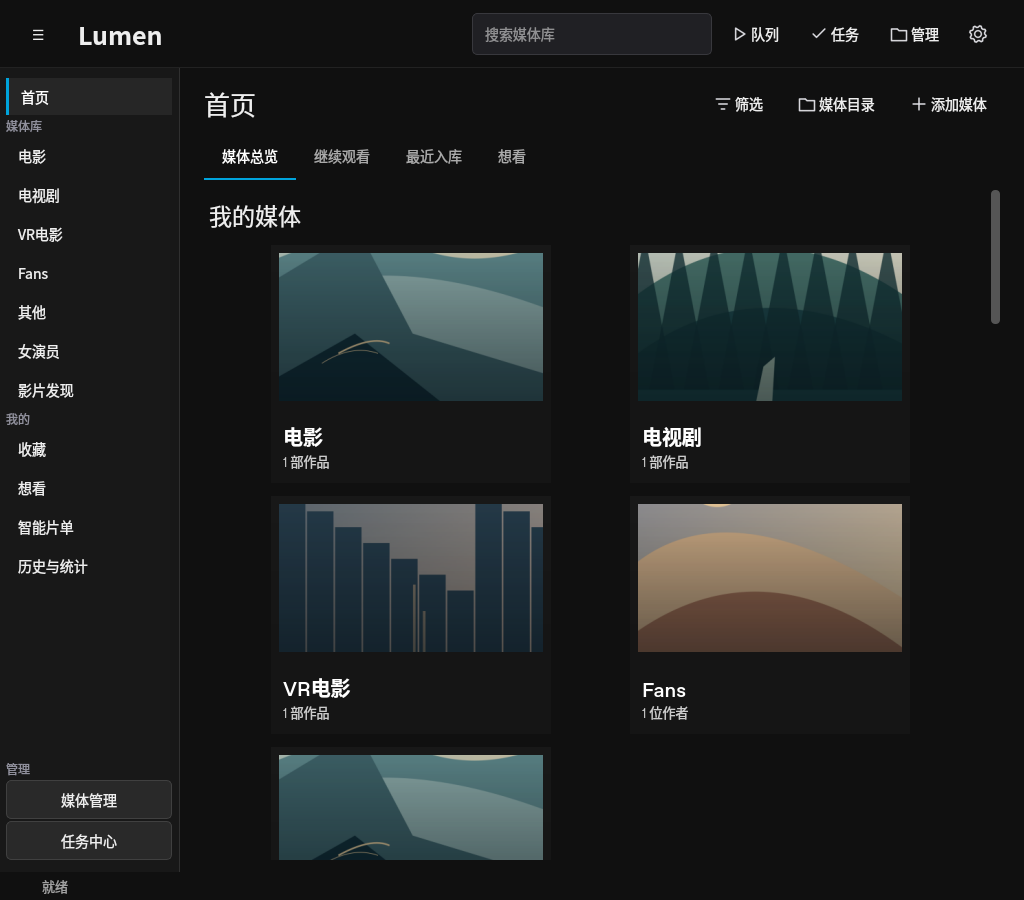
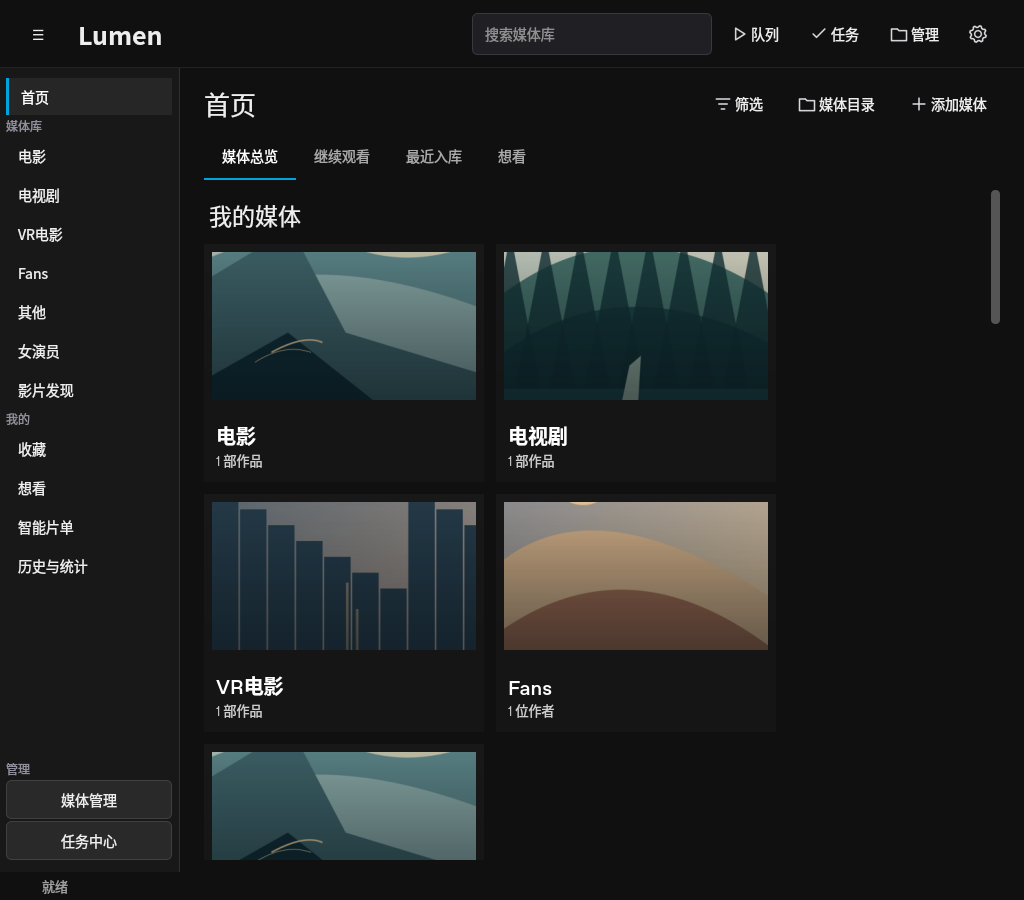
Preserve manual player visibility across pause and finalize approved surfaces

diff --git a/android/app/src/main/java/net/lumen/media/MainActivity.java b/android/app/src/main/java/net/lumen/media/MainActivity.java
@@ -311,17 +311,18 @@ public final class MainActivity extends Activity {
             for(int i=0;i<items.length();i++){
                 JSONObject work=items.getJSONObject(i),resume=work.optJSONObject("resume");if(resume==null)continue;
                 long workId=work.optLong("id"),fileId=resume.optLong("file_id");
-                LinearLayout card=new LinearLayout(this);card.setOrientation(LinearLayout.VERTICAL);card.setPadding(dp(10),dp(6),dp(10),dp(8));card.setBackground(MediaStyle.surface(this,0xff15212c,0xff2c414f,8));
+                LinearLayout card=new LinearLayout(this);card.setOrientation(LinearLayout.VERTICAL);card.setPadding(0,0,0,dp(8));card.setBackground(MediaStyle.surface(this,MediaStyle.SURFACE,MediaStyle.BORDER,16));card.setClipToOutline(true);
                 LinearLayout.LayoutParams size=new LinearLayout.LayoutParams(dp(Math.min(336,Math.max(260,getResources().getConfiguration().screenWidthDp-52))),-2);size.setMargins(0,0,dp(12),dp(12));row.addView(card,size);
-                ImageView cover=new ImageView(this);cover.setScaleType(ImageView.ScaleType.CENTER_CROP);card.addView(cover,new LinearLayout.LayoutParams(-1,dp(130)));loadImage(cover,work.optString("cover",""));
-                TextView title=text(work.optString("title"),17,Color.WHITE);title.setMaxLines(2);card.addView(title);
+                FrameLayout artwork=new FrameLayout(this);ImageView cover=new ImageView(this);cover.setScaleType(ImageView.ScaleType.CENTER_CROP);artwork.addView(cover,new FrameLayout.LayoutParams(-1,-1));card.addView(artwork,new LinearLayout.LayoutParams(-1,Math.round(size.width*9f/16)));loadImage(cover,work.optString("cover",""));
+                LinearLayout body=new LinearLayout(this);body.setOrientation(LinearLayout.VERTICAL);body.setPadding(dp(14),dp(8),dp(14),dp(8));card.addView(body);
+                TextView title=text(work.optString("title"),17,Color.WHITE);title.setMaxLines(2);body.addView(title);
                 String filename=resume.optString("name",resume.optString("file_name",resume.optString("label")));
-                TextView description=text(filename,12,MUTED);description.setTag("continueIdentity:"+fileId);description.setMaxLines(2);description.setEllipsize(android.text.TextUtils.TruncateAt.END);description.setOnClickListener(v->new AlertDialog.Builder(this).setTitle(work.optString("title")).setMessage(resume.optString("label",filename)).setPositiveButton("关闭",null).show());card.addView(description);
+                TextView description=text(filename,12,MUTED);description.setTag("continueIdentity:"+fileId);description.setMaxLines(2);description.setEllipsize(android.text.TextUtils.TruncateAt.END);description.setOnClickListener(v->new AlertDialog.Builder(this).setTitle(work.optString("title")).setMessage(resume.optString("label",filename)).setPositiveButton("关闭",null).show());body.addView(description);
                 double duration=resume.optDouble("duration",0),position=resume.optDouble("position",0);
-                TextView times=text("已看 "+continueTime(position)+(duration>0?" / "+continueTime(duration)+"  ·  剩余 "+continueTime(Math.max(0,duration-position)):" · 时长未知"),12,0xffbfe8ee);times.setTag("continueTime:"+fileId);card.addView(times);
-                if(duration>0){ProgressBar progress=new ProgressBar(this,null,android.R.attr.progressBarStyleHorizontal);progress.setMax(1000);progress.setProgress((int)Math.max(0,Math.min(1000,position/duration*1000)));progress.setContentDescription("观看进度");card.addView(progress,new LinearLayout.LayoutParams(-1,dp(4)));}
-                Button play=button(position>0?"继续播放":"播放下一集",()->{Intent intent=new Intent(this,PlayerActivity.class);intent.putExtra("work_id",workId);intent.putExtra("file_id",fileId);intent.putExtra("queue",false);startActivity(intent);});
-                play.setContentDescription("续播："+work.optString("title")+" · "+resume.optString("label"));card.addView(play);cover.setOnClickListener(view->openDetail(workId));title.setOnClickListener(view->openDetail(workId));
+                TextView times=text("已看 "+continueTime(position)+(duration>0?" / "+continueTime(duration)+"  ·  剩余 "+continueTime(Math.max(0,duration-position)):" · 时长未知"),12,0xffbfe8ee);times.setTag("continueTime:"+fileId);body.addView(times);
+                if(duration>0){ProgressBar progress=new ProgressBar(this,null,android.R.attr.progressBarStyleHorizontal);progress.setMax(1000);progress.setProgress((int)Math.max(0,Math.min(1000,position/duration*1000)));progress.setContentDescription("观看进度");body.addView(progress,new LinearLayout.LayoutParams(-1,dp(4)));}
+                PlaybackIconButton play=new PlaybackIconButton(this,"play",position>0?"继续播放":"播放下一集");play.setOnClickListener(view->{Intent intent=new Intent(this,PlayerActivity.class);intent.putExtra("work_id",workId);intent.putExtra("file_id",fileId);intent.putExtra("queue",false);startActivity(intent);});
+                play.setTag("continuePlay:"+fileId);play.setContentDescription("续播："+work.optString("title")+" · "+resume.optString("label"));play.setBackground(MediaStyle.surface(this,MediaStyle.ACCENT,0,26));play.setTextColor(0xff102a35);FrameLayout.LayoutParams floating=new FrameLayout.LayoutParams(dp(52),dp(52),Gravity.RIGHT|Gravity.BOTTOM);floating.setMargins(0,0,dp(14),dp(14));artwork.addView(play,floating);cover.setOnClickListener(view->openDetail(workId));title.setOnClickListener(view->openDetail(workId));
             }
         },error->{if(panel!=continuePanel)return;panel.removeAllViews();panel.setVisibility(View.VISIBLE);panel.addView(button("续播读取失败，点击重试",this::loadContinue));});
     }

diff --git a/android/app/src/main/java/net/lumen/media/PlayerActivity.java b/android/app/src/main/java/net/lumen/media/PlayerActivity.java
@@ -48,20 +48,22 @@ public final class PlayerActivity extends Activity {
     private boolean usesGlVideo(){return vrEnabled||beauty.enabled&&!beautyUnavailable;}
     private FrameLayout root,overlay;
     private LinearLayout topBar,bottomBar,vrBar,playbackRow,transportControls;
-    private boolean compactTransport=false,portraitControls=false,holdActivated=false;
+    private boolean compactTransport=false,portraitControls=false,holdActivated=false,holdControlsVisible=true;
     private int controlWidth=-1,controlHeight=-1;
     private float controlFont=-1;
     private LinearLayout personalRow,quickRow,portraitInfo;
     private TextView portraitTitle,portraitMeta,speedHint;
     private Button topBookmark,railBookmark,railMore,rotate;
     private final HoldSpeed holdSpeed=new HoldSpeed();
-    private final Runnable beginHoldSpeed=()->{
+    private final Runnable beginHoldSpeed=this::beginTemporarySpeed;
+    private void beginTemporarySpeed(){
         if(player==null||!player.isPlaying()||this.buffering||vrEnabled||this.swipeCancelled||this.swipeSeeking||this.dragging||this.playbackDialogs>0)return;
         final MediaPlayer decoder=player;
         if(holdSpeed.begin(new HoldSpeed.Decoder(){public float rate(){return decoder.getRate();}public boolean rate(float value){decoder.setRate(value);return Math.abs(decoder.getRate()-value)<.05f;}})){
-            holdActivated=true;showControls(false);speedHint.setText(String.format(java.util.Locale.ROOT,"%.2g× 倍速播放中\n松手恢复 %.2g×",holdSpeed.temporary(),holdSpeed.original()));speedHint.setVisibility(View.VISIBLE);
+            holdActivated=true;holdControlsVisible=controlsVisible;showControls(false);speedHint.setText(String.format(java.util.Locale.ROOT,"%.2g× 倍速播放中\n松手恢复 %.2g×",holdSpeed.temporary(),holdSpeed.original()));speedHint.setVisibility(View.VISIBLE);
         }
-    };
+    }
+
     private PlayerController controller;
     private Button projection;
     private TextView gestureHint;
@@ -223,7 +225,7 @@ public final class PlayerActivity extends Activity {
         new AlertDialog.Builder(this).setTitle("选集 / 文件").setItems(names,(d,i)->load(work.optLong("id"),files.optJSONObject(i).optLong("id"))).setNegativeButton("取消",null).show();
     }
     private void videoTap(){showControls(!controlsVisible);}
-    private void cancelHoldSpeed(){handler.removeCallbacks(beginHoldSpeed);boolean wasActive=holdSpeed.active();boolean restored=holdSpeed.end();if(speedHint!=null)speedHint.setVisibility(View.GONE);if(wasActive){showControls(true);if(!restored&&status!=null)status.setText("恢复原速失败，请重新选择播放速度");}}
+    private void cancelHoldSpeed(){handler.removeCallbacks(beginHoldSpeed);boolean wasActive=holdSpeed.active();boolean restored=holdSpeed.end();if(speedHint!=null)speedHint.setVisibility(View.GONE);if(wasActive){showControls(holdControlsVisible);if(!restored&&status!=null)status.setText("恢复原速失败，请重新选择播放速度");}}
     private void arrangePlayerControls(int width,int height){
         if(overlay==null||bottomBar==null||personalRow==null)return;
         int w=width-overlay.getPaddingLeft()-overlay.getPaddingRight(),h=height-overlay.getPaddingTop()-overlay.getPaddingBottom();float font=getResources().getConfiguration().fontScale;boolean portrait=h>w&&!vrEnabled;
@@ -582,13 +584,17 @@ public final class PlayerActivity extends Activity {
         if(player==null)return;
         long position=positionMs();if(ready)lastPosition=position;
         long duration=durationMs();if(!dragging&&duration>0)seek.setProgress((int)(Math.max(0,position)*10000/duration));
-        seek.setEnabled(player.isSeekable());((PlaybackIconButton)pause).setSymbol(player.isPlaying()?"pause":"play",player.isPlaying()?"暂停":"播放");
+        seek.setEnabled(player.isSeekable());renderPlaybackState(player.isPlaying());
         time.setText(clock(position)+" / "+clock(duration));updatePortraitInfo();
         if(portraitControls&&!holdSpeed.active())transportControls.setVisibility(controlsVisible?View.VISIBLE:View.GONE);
         if(buffering){cancelHoldSpeed();gestureHint.setText("正在缓冲…");gestureHint.setVisibility(View.VISIBLE);}else if(!swipeSeeking)gestureHint.setVisibility(View.GONE);
         updateVideoGeometry();
         if(controller!=null)controller.state(player.isPlaying(),buffering,position,duration,title.getText().toString());
-        if(!player.isPlaying()&&!controlsVisible)showControls(true);
+
+    }
+    private void renderPlaybackState(boolean playing){
+        ((PlaybackIconButton)pause).setSymbol(playing?"pause":"play",playing?"暂停":"播放");
+        if(transportControls!=null&&!holdSpeed.active())transportControls.setVisibility(controlsVisible?View.VISIBLE:View.GONE);
     }
     private void restartDecoder(boolean useSoftware){
         generation++;setNavigationPending(false);stopPlayback(false);software=useSoftware;startPlayback();

diff --git a/android/app/src/test/java/net/lumen/media/ApprovedUiTest.java b/android/app/src/test/java/net/lumen/media/ApprovedUiTest.java
@@ -43,7 +43,9 @@ public class ApprovedUiTest {
     @Test public void videoTapTogglesOnlyControlsAndCancelRestoresTheOriginalRate()throws Exception{
         try(ActivityController<PlayerActivity> lifecycle=Robolectric.buildActivity(PlayerActivity.class).create()){
             PlayerActivity activity=lifecycle.get();Method build=PlayerActivity.class.getDeclaredMethod("buildPlayerUi",android.content.SharedPreferences.class);build.setAccessible(true);build.invoke(activity,activity.getSharedPreferences("playback",0));View root=(View)get(activity,"root");layout(root,393,852);View touch=root.findViewWithTag("videoGestures");
-            touch.performClick();assertEquals(false,get(activity,"controlsVisible"));assertEquals(View.GONE,((View)get(activity,"personalRow")).getVisibility());touch.performClick();assertEquals(true,get(activity,"controlsVisible"));assertNull(get(activity,"player"));
+            touch.performClick();assertEquals(false,get(activity,"controlsVisible"));assertEquals(View.GONE,((View)get(activity,"personalRow")).getVisibility());
+            Method render=PlayerActivity.class.getDeclaredMethod("renderPlaybackState",boolean.class);render.setAccessible(true);render.invoke(activity,false);assertEquals(false,get(activity,"controlsVisible"));assertEquals(View.GONE,((View)get(activity,"transportControls")).getVisibility());render.invoke(activity,true);assertEquals(false,get(activity,"controlsVisible"));
+            touch.performClick();assertEquals(true,get(activity,"controlsVisible"));assertNull(get(activity,"player"));
             HoldSpeed hold=(HoldSpeed)get(activity,"holdSpeed");HoldSpeedTest.Fake decoder=new HoldSpeedTest.Fake(1.5f);assertTrue(hold.begin(decoder));set(activity,"holdActivated",true);
             Method gesture=PlayerActivity.class.getDeclaredMethod("playbackTouch",View.class,MotionEvent.class);gesture.setAccessible(true);MotionEvent cancel=MotionEvent.obtain(0,1,MotionEvent.ACTION_CANCEL,120,200,0);gesture.invoke(activity,touch,cancel);cancel.recycle();assertEquals(1.5f,decoder.value,0);assertFalse(hold.active());
             set(activity,"work",new org.json.JSONObject().put("id",7).put("title","海岸纪行：沿着海风，走向群岛深处").put("favorite",1));set(activity,"file",new org.json.JSONObject().put("id",70).put("name","S02E03 · 海岛来信"));call(activity,"refreshPersonal");layout(root,393,852);snapshot(root,"approved-android-player-portrait.png");layout(root,852,393);snapshot(root,"approved-android-player-landscape.png");call(activity,"playbackSettings");android.app.AlertDialog dialog=org.robolectric.shadows.ShadowAlertDialog.getLatestAlertDialog();View panel=dialog.getWindow().getDecorView();layout(panel,340,393);snapshot(panel,"approved-android-player-settings.png");dialog.dismiss();

diff --git a/android/app/src/test/java/net/lumen/media/ContinueHomeTest.java b/android/app/src/test/java/net/lumen/media/ContinueHomeTest.java
@@ -44,10 +44,10 @@ public class ContinueHomeTest {
                 return new MockResponse().setBody("{\"items\":[],\"total\":0}");
             }});server.start();MainActivity activity=lifecycle.get();set(activity,"api",new Api(new Connection(server.url("/").toString(),"abcdefghijklmnopqrstuvwxyz123456")));
             call(activity,"showLibrary");View root=activity.findViewById(android.R.id.content);long deadline=System.currentTimeMillis()+5000;
-            while(find(root,"继续播放")==null&&System.currentTimeMillis()<deadline)pump();
+            while(root.findViewWithTag("continuePlay:77")==null&&System.currentTimeMillis()<deadline)pump();
             assertNotNull(find(root,"继续观看"));assertNotNull(find(root,"继续 Part 2 · 2:05 · 剩余 7:55"));
             Object original=get(activity,"root");set(activity,"offset",90);
-            find(root,"继续播放").performClick();Intent launch=shadowOf(activity).getNextStartedActivity();
+            root.findViewWithTag("continuePlay:77").performClick();Intent launch=shadowOf(activity).getNextStartedActivity();
             assertEquals(42,launch.getLongExtra("work_id",0));assertEquals(77,launch.getLongExtra("file_id",0));
             lifecycle.pause().resume();assertSame(original,get(activity,"root"));assertEquals(90,get(activity,"offset"));
         }

diff --git a/src/lumen/home.py b/src/lumen/home.py
@@ -64,7 +64,7 @@ class MediaShortcuts(QScrollArea):
         self.setVerticalScrollBarPolicy(Qt.ScrollBarPolicy.ScrollBarAlwaysOff)
         self.setHorizontalScrollBarPolicy(Qt.ScrollBarPolicy.ScrollBarAlwaysOff)
         self.content=QWidget();self.row=QGridLayout(self.content)
-        self.row.setContentsMargins(0,0,0,0);self.row.setSpacing(12)
+        self.row.setContentsMargins(0,0,0,0);self.row.setSpacing(12);self.row.setAlignment(Qt.AlignmentFlag.AlignLeft|Qt.AlignmentFlag.AlignTop)
         self.tiles=[];self.setWidget(self.content);self.setFixedHeight(300)
     def add_tile(self,tile):
         self.tiles.append(tile);self.reflow()
